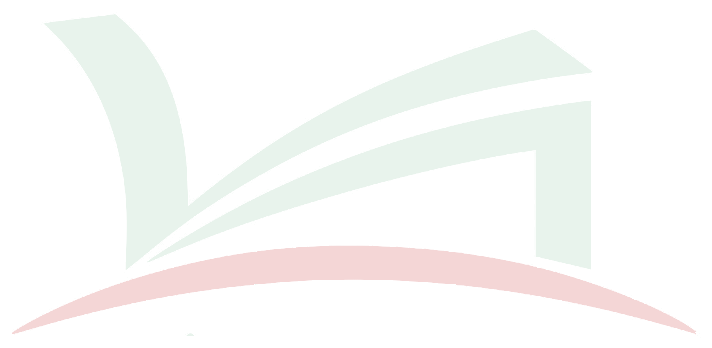
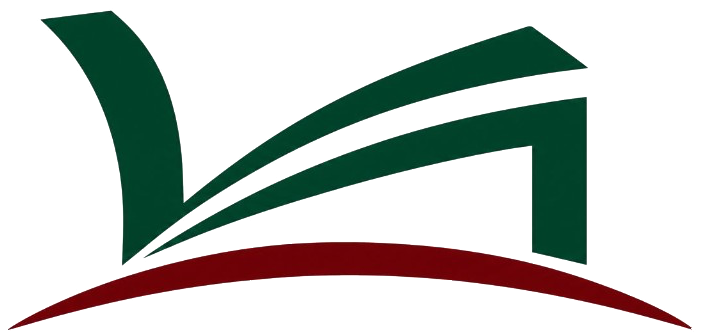
upload

diff --git a/landscape.html b/landscape.html
@@ -537,7 +537,7 @@
         flex: 0 0 auto;
         margin-top: auto;
         margin-inline: -22px;
-        background: #022818;
+        background: #e7f2ec;
       }
 
       .footer-plate {
@@ -554,12 +554,11 @@
         justify-content: center;
         margin: 0;
         padding: 14px 16px 16px 22px;
-        border-right: 1px solid rgba(255, 255, 255, 0.22);
         text-align: left;
       }
 
       .emp-line .employee-label-en {
-        color: rgba(255, 255, 255, 0.62);
+        color: #032818;
         font-size: 10px;
         font-weight: 700;
         letter-spacing: 0.18em;
@@ -567,7 +566,7 @@
       }
 
       .emp-line .number {
-        color: #fff;
+        color: #032818;
         margin-top: 4px;
         font-size: 28px;
         font-weight: 700;
@@ -581,7 +580,7 @@
         display: grid;
         place-items: center;
         padding: 14px 16px 16px;
-        background: #033d28;
+        background: #e7f2ec;
       }
 
       .footer-mark {
@@ -799,7 +798,7 @@
                     </div>
                   </div>
                   <div class="mark-well">
-                    <img class="footer-mark" src="landscape-mark.png?v=3" alt="" />
+                    <img class="footer-mark" src="landscape-mark.png?v=4" alt="" />
                   </div>
                 </div>
               </div>
